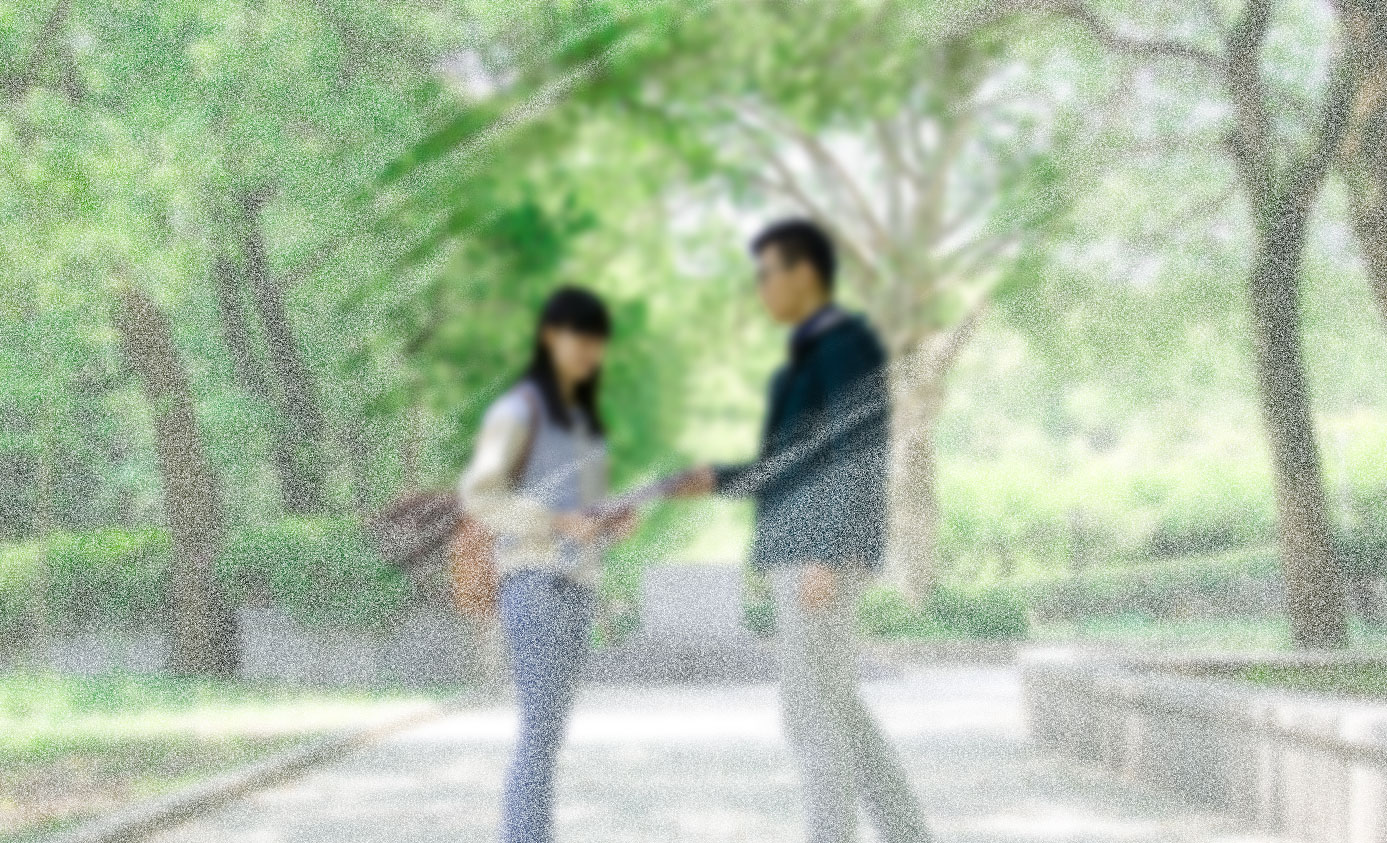
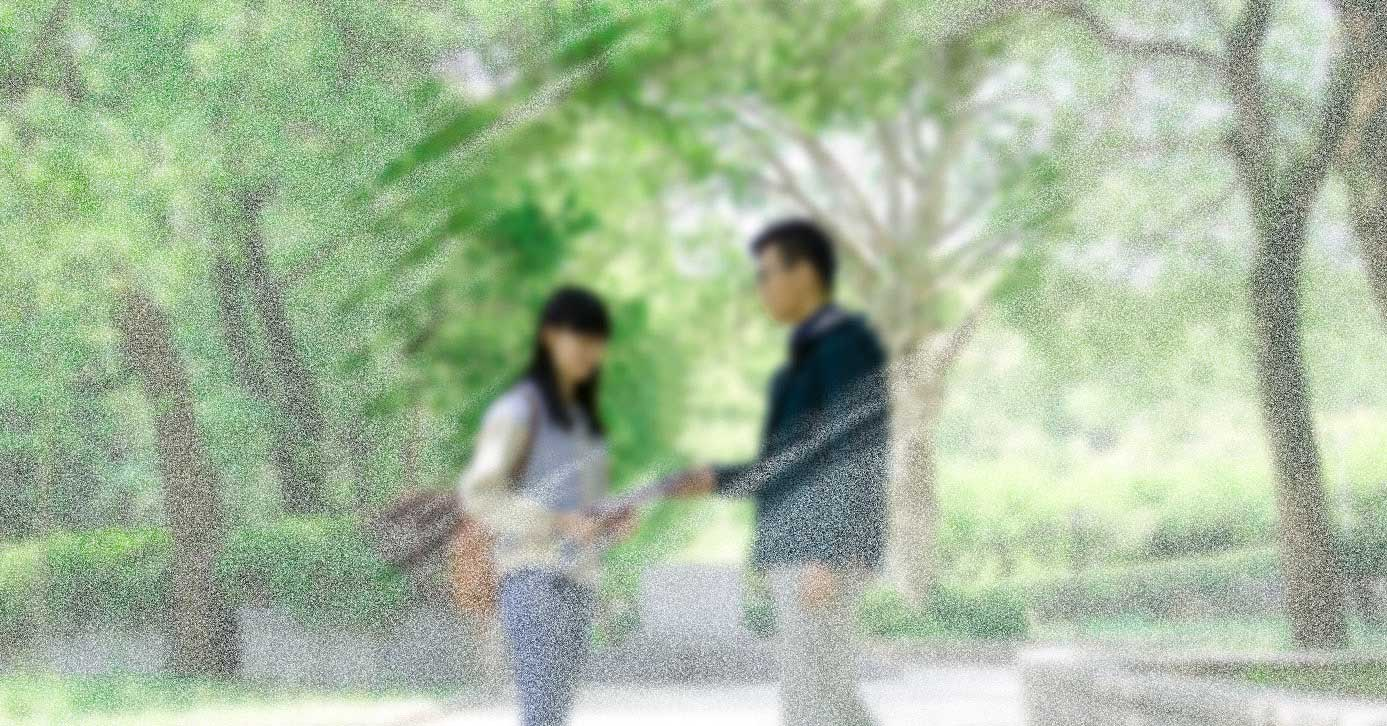
修改主页 图片 对所有图片进行压缩

diff --git a/public/index.html b/public/index.html
@@ -1,6 +1,6 @@
 <!DOCTYPE html><html><head lang="en"><meta http-equiv="Content-Language" content="zh-CN"><meta name="viewport" content="width=device-width,initial-scale=1,maximum-scale=1,user-scalable=no"><meta charset="utf-8"><title>书循网-提供最快捷的二手书交易平台</title><meta name="keywords" content="书循,书循网,寻书,二手书,二手教材,大学教材,二手书交易,书交易,旧书,书讯,淘书网,图书,网上书店,网上图书商城,畅销书,新书,打折,特价书,扫一扫买书,微信买书,微信交易平台"><meta name="description" content="一款包含所有书本的信息的大学生书本交易网,轻松买书,迅速比价,自由淘书。一键购买图书,一键出售图书。让图书交易更简洁。提供最全的新书、二手书各种书本信息"><link href="lib/semantic/semantic.css" rel="stylesheet"><style>body {
             font-family: 'Lato', 'Helvetica Neue', Arial, Helvetica, sans-serif;
-        }</style><title>书循</title></head><body><div class="ui center aligned grid" style="width: 100%;height:100%;margin: 0;padding: 0"><div class="sixteen wide column" style="background: url(img/index.jpg) no-repeat;height:inherit; width:100%;background-position-x:center"><div class="four wide column" style="margin: 10px auto auto auto;width: 150px;height:150px"><img src="img/shuxunlogo.png" style="max-height: 120px;max-width:120px"></div><div class="introduction" style="margin-top:5%"><h1 class="ui inverted header"><b data-text="User Interface">just for a book</b> <span class="typed-cursor">|</span> <span class="text">only for a book</span></h1></div></div><div class="two column row" style="margin: 0"><div class="right floated center aligned column" style="margin: 0"><img class="ui image" src="img/shouyepic-price.png" style="padding-left: 0;margin: auto;width: 70%"><h3>最低价的图书</h3><h4 class="ui header">货比三家，参考全网报价，选到最满意图书</h4></div><div class="ui vertical divider"><i class="heart icon"></i></div><div class="left floated center aligned column"><img class="ui image jieshao" src="img/shouyepic-attestation.png" style=";margin: auto;width: 70%"><h3>最简单的寻找方式</h3><h4 class="ui header">轻松扫一下条形码，书本所有信息瞬间展现</h4></div></div><div class="ui horizontal divider"><i class="heart icon"></i></div><div class="two column row"><div class="right floated center aligned column"><img class="ui image" src="img/shouyepic-distance.png" style=";margin: auto;width: 70%"><h3>最贴心的距离</h3><h4 class="ui header">轻松定位，就近原则，最短距离买到所需书本</h4></div><div class="ui vertical divider"><i class="heart icon"></i></div><div class="left floated center aligned column"><img class="ui image" src="img/shouyepic-market.png" style=";margin: auto;width: 70%"><h3>最透明的交易市场</h3><h4 class="ui header">消息关联，自主交易，安全可靠又实用</h4></div></div><div class="ui horizontal divier"><i class="ui heart icon"></i></div><div class="ui horizontal divider"><i class="heart icon"></i></div><div class="one column row"><div class="centered column"><h3>扫下面二维码，即刻加入书循</h3><img src="img/erweima.jpg"></div></div><div style="width: 100%;height:100px;margin: 90px auto 0 auto"><h5><p>柠檬工作室© All Rights 2015</p><p>鄂ICP备14013290号-2</p></h5></div></div><script src="lib/jquery/jquery.js"></script><script src="lib/semantic/semantic.js"></script><script>function Try() {
+        }</style><title>书循</title></head><body><div class="ui center aligned grid" style="width: 100%;height:100%;margin: 0;padding: 0"><div class="sixteen wide column" style="background: url(img/index.jpg) no-repeat;height:inherit; width:100%;background-position-x:center"><div class="four wide column" style="margin: 10px auto auto auto;width: 150px;height:150px"><img src="img/shuxunlogo.png" style="max-height: 120px;max-width:120px"></div><div class="introduction" style="margin-top:5%"><h1 class="ui inverted header"><b data-text="User Interface">just for a book</b> <span class="typed-cursor">|</span> <span class="text">only for a book</span></h1></div></div><div class="two column row" style="margin: 0"><div class="right floated center aligned column" style="margin: 0"><img class="ui image" src="img/shouyepic-price.png" style="padding-left: 0;margin: auto;width: 70%"><h3>最低价的图书</h3><h4 class="ui header">货比三家，参考全网报价，选到最满意图书</h4></div><div class="ui vertical divider"><i class="heart icon"></i></div><div class="left floated center aligned column"><img class="ui image jieshao" src="img/shouyepic-attestation.png" style=";margin: auto;width: 70%"><h3>最简单的寻找方式</h3><h4 class="ui header">轻松扫一下条形码，书本所有信息瞬间展现</h4></div></div><div class="ui horizontal divider"><i class="heart icon"></i></div><div class="two column row"><div class="right floated center aligned column"><img class="ui image" src="img/shouyepic-distance.png" style=";margin: auto;width: 70%"><h3>最贴心的距离</h3><h4 class="ui header">轻松定位，就近原则，最短距离买到所需书本</h4></div><div class="ui vertical divider"><i class="heart icon"></i></div><div class="left floated center aligned column"><img class="ui image" src="img/shouyepic-market.png" style=";margin: auto;width: 70%"><h3>最透明的交易市场</h3><h4 class="ui header">消息关联，自主交易，安全可靠又实用</h4></div></div><div class="ui horizontal divier"><i class="ui heart icon"></i></div><div class="ui horizontal divider"><i class="heart icon"></i></div><div class="one column row"><div class="centered column"><h3>扫下面二维码，即刻加入书循</h3><img src="img/erweima.png"></div></div><div style="width: 100%;height:100px;margin: 90px auto 0 auto"><h5><p>柠檬工作室© All Rights 2015</p><p>鄂ICP备14013290号-2</p></h5></div></div><script src="lib/jquery/jquery.js"></script><script src="lib/semantic/semantic.js"></script><script>function Try() {
         $('#flicker ')
                 .transition('pulse');
     }</script></body></html>

diff --git a/src/index.html b/src/index.html
@@ -78,7 +78,7 @@
     <div class="one column row">
         <div class="centered column">
             <h3>扫下面二维码，即刻加入书循</h3>
-            <img src="img/erweima.jpg">
+            <img src="img/erweima.png">
         </div>
     </div>
     <div style="width: 100%;height:100px;margin: 90px auto 0 auto">
